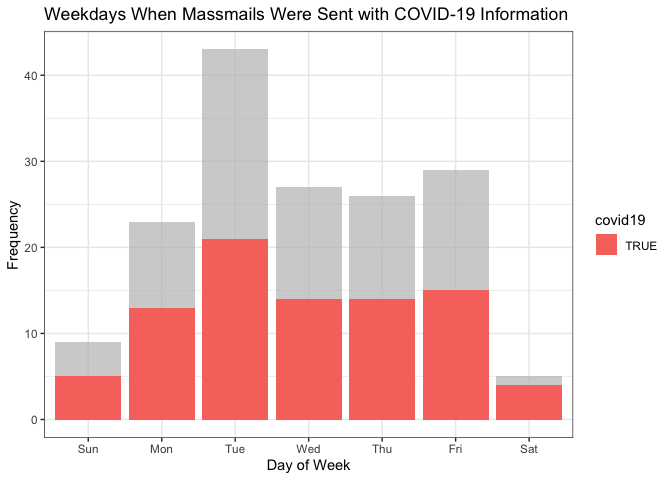
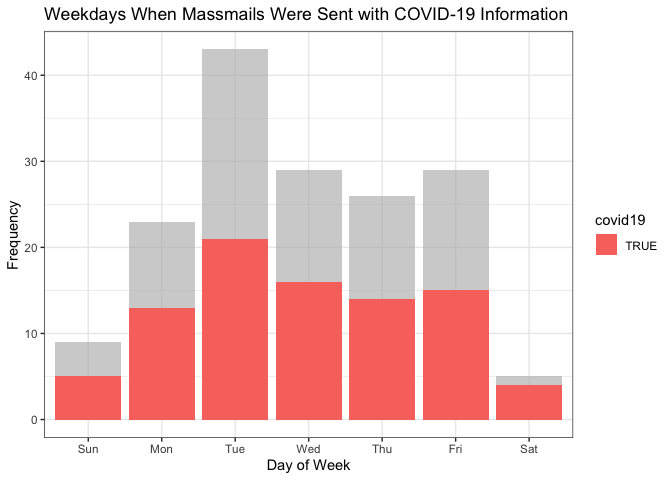
Re-build README.Rmd and Graphs

Changed region(s): [[0.4062, 0.3438, 0.5312, 0.4062], [0.4062, 0.5625, 0.5312, 0.625]]

diff --git a/README.md b/README.md
@@ -17,7 +17,7 @@ The archive may be viewed here:
 
 <https://massmail.illinois.edu/massmailArchive>
 
-Data has **1204** observations and **7** variables:
+Data has **1206** observations and **7** variables:
 
   - `datetime`: Date and time when the email was sent in the form of
     `YYYY-MM-DD HMS` with either CDT or CST.
@@ -205,16 +205,16 @@ head(most_popular_words, 10) %>%
 
 | word        | freq |
 | :---------- | ---: |
-| students    |  596 |
-| university  |  529 |
-| campus      |  499 |
-| illinois    |  336 |
+| students    |  606 |
+| university  |  531 |
+| campus      |  511 |
+| illinois    |  340 |
 | faculty     |  298 |
-| covid       |  268 |
+| covid       |  273 |
 | information |  262 |
-| community   |  249 |
+| community   |  250 |
 | staff       |  235 |
-| health      |  215 |
+| health      |  222 |
 
 #### Wordcloud
 
